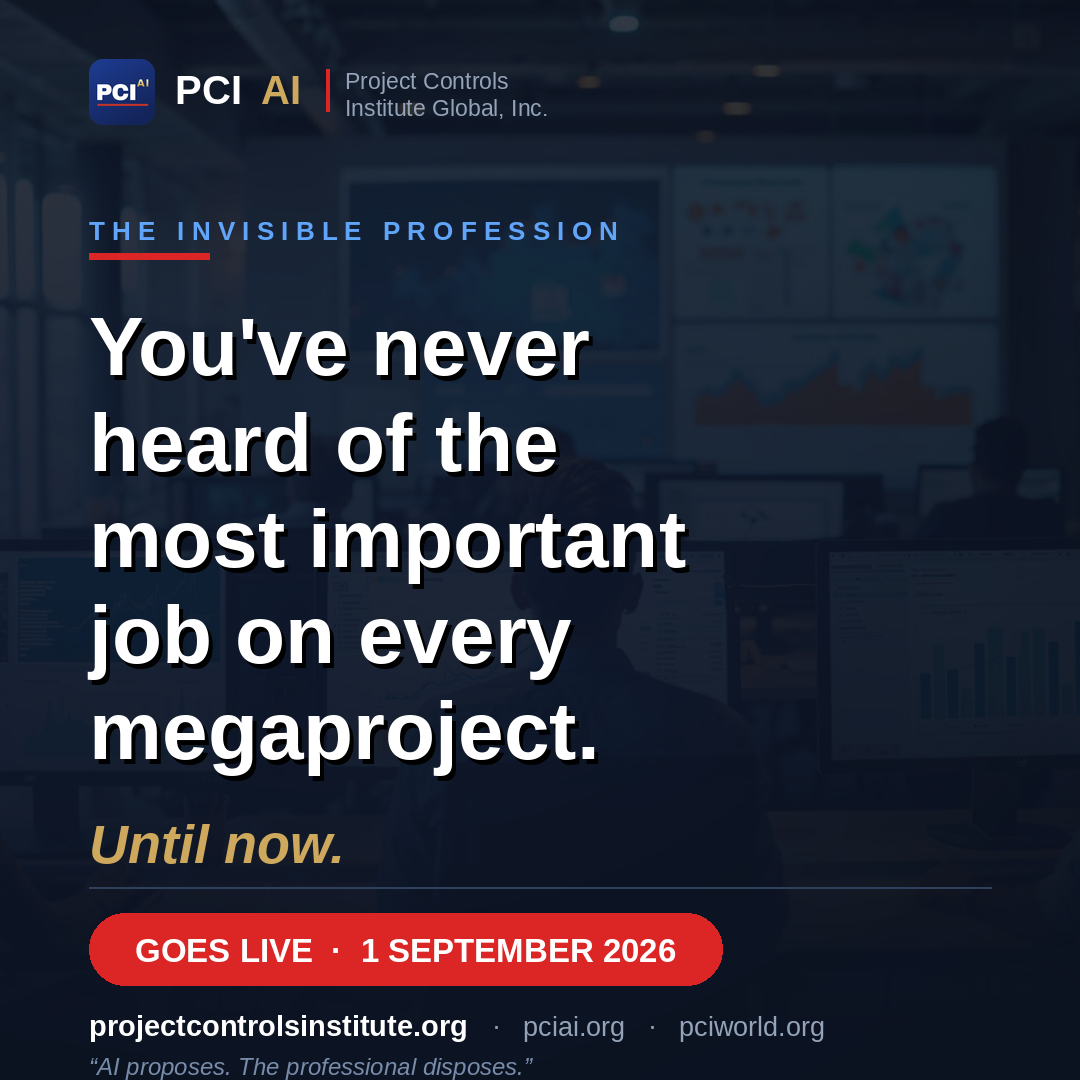
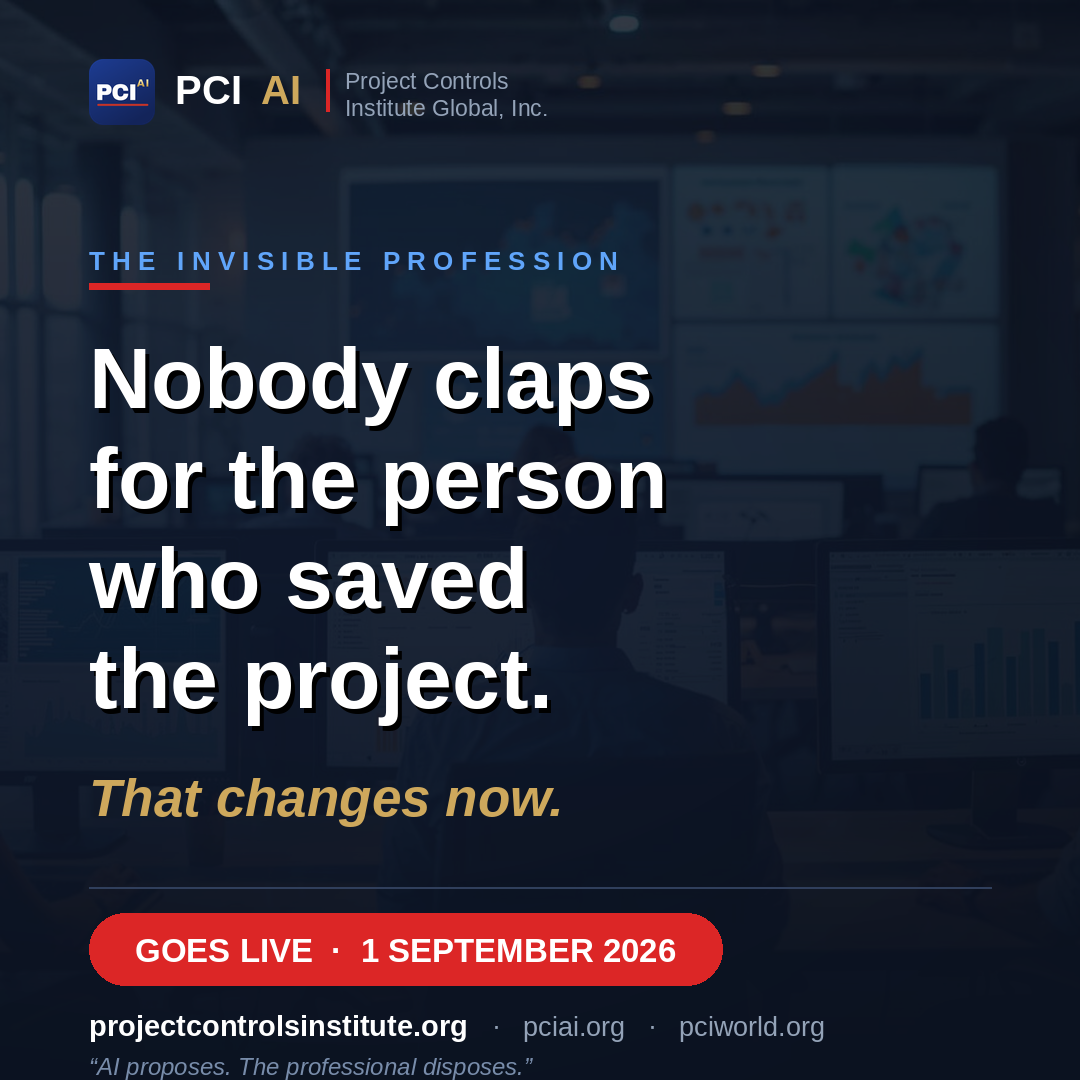
Rework viral post for company-account launch with 10-day boost
New gratitude hook ('Nobody claps for the person who saved the project')
on both the copy and the creative — the strongest tag-driving angle for
a company-page post. Playbook updated: company voice as primary, ally
engagement plan replacing the personal-profile advantage, seed comment
including early honorary applications, and the paid section reworked to
US$30/day x 10 days (~US$300) boosting the same organic post, with a
concentrate-don't-spread budget rule.

Claude-Session: https://claude.ai/code/session_01QrWdjWybfRT68AXDi3hV5u

Changed region(s): [[0.0611, 0.1833, 0.6417, 0.825]]

diff --git a/docs/marketing/viral-launch-post.md b/docs/marketing/viral-launch-post.md
@@ -1,151 +1,120 @@
-# The viral launch post
+# The viral launch post (company account)
 
-Assets: `pci-viral-post-image.png` (1080×1350 — attach to the organic post) and
+Assets: `pci-viral-post-image.png` (1080×1350 — attach to the post) and
 `pci-viral-post-square.png` (1080×1080 — used automatically by some ad placements).
-Post from a **personal profile** (founder/lead), tagging the company page — personal posts
-reach 3–10× further than company posts. Repost from the company page 2–4 hours later.
+Posting from the **PCI company page** — which is also what makes the paid boost possible
+(LinkedIn can only sponsor company-page posts). Organic engagement and the US$30/day boost
+land on the **same post**, so they compound.
 
 ---
 
-## The post (personal voice — primary)
+## The post (company voice — this is the one)
 
-> You've never heard of the most important job on every megaproject.
+> Nobody claps for the person who saved the project.
 >
-> The airport you flew from. The metro you rode this morning. The data centre this post
-> lives in.
+> The ribbon gets cut. The photos get taken. The award goes on someone else's shelf.
 >
-> Every one of them had a person who knew — weeks before anyone else — that the schedule
-> was slipping and the money was running out.
+> But months earlier, in a quiet office, a planner spotted the slip. A cost engineer
+> caught the overrun. A risk analyst said the uncomfortable thing out loud.
 >
-> They're called project controls professionals. Planners. Cost engineers. Risk analysts.
-> Project finance people.
+> That's project controls — the most important job on every megaproject. And almost
+> nobody knows it exists.
 >
-> They don't pour the concrete. They don't cut the ribbon.
-> They just quietly stop billion-dollar projects from failing — with a schedule, a cost
-> model, and the courage to tell the project director the truth.
+> Here's what the numbers say:
 >
-> And here's the strange part:
+> → 25 million new project professionals needed by 2030 (PMI)
+> → US$94 trillion of infrastructure to build by 2040 (Oxford Economics)
+> → And no professional home for the people who make it all add up. Until now.
 >
-> The world needs 25 million new project professionals by 2030 — PMI's number, not mine.
-> US$94 trillion of infrastructure needs building by 2040.
+> On 1 September 2026, the Project Controls Institute goes live — an independent,
+> non-profit US body for project controls professionals, project managers, cost
+> engineers and project finance professionals, worldwide:
 >
-> Yet this profession has never had a home of its own. No focused standard. No institute
-> that certifies the whole job — planning, cost, risk, finance. And nothing that covers
-> the AI now drafting half the work.
+> ✔ Three certifications with governed AI at the core — AI now drafts the schedule;
+>    someone has to judge it
+> ✔ Students: a founding window with membership + exam fees waived. The exam? Still
+>    real. Still earned.
+> ✔ For those who built this profession: board-conferred Honorary Fellowships — no
+>    exam, no fees, ever
+> ✔ Any credential, verified by anyone, in seconds
+> ✔ 7 languages · 25 country chapters · day one
 >
-> That changes on 1 September 2026.
+> And one promise that might sound strange from a certification body: we will never
+> overclaim. We're not yet accredited — and we say so on our own website. Trust is
+> the product.
 >
-> The Project Controls Institute (PCI) — an independent, non-profit body registered in
-> the United States — goes live for project controls professionals, project managers,
-> cost engineers and project finance professionals worldwide:
+> AI proposes. The professional disposes.
 >
-> → Three certifications for the whole discipline, with governed AI at the core
-> → A founding window for students: membership + exam fees waived (the exam is real —
->    you still have to pass it)
-> → Honorary Fellowships for those who built this profession — no exam, no fees,
->    board-conferred
-> → Every credential publicly verifiable by anyone, in seconds
-> → 7 languages. 25 country chapters. Day one.
->
-> One more thing I respect: they refuse to overclaim. Not yet accredited? They say so,
-> in writing, on their own site. In a world of certificate mills, that honesty is the
-> whole point.
->
-> "AI proposes. The professional disposes."
->
-> If you've ever worked with a planner or cost engineer who saved a project nobody knows
-> about — tag them below. Let's make the invisible profession visible. 👇
->
-> 🔗 projectcontrolsinstitute.org
->
-> #ProjectControls #CostEngineering #PlanningEngineer #ProjectManagement #Megaprojects
-
----
-
-## Company-page variant (shorter, repost 2–4 h later)
-
-> The most important job on every megaproject is one most people have never heard of.
->
-> Planners. Cost engineers. Risk analysts. The people who know the truth about the
-> schedule and the money before anyone else — and say it out loud.
->
-> On 1 September 2026, this profession finally gets a home.
->
-> The Project Controls Institute — an independent, non-profit US body — goes live:
-> three certifications with governed AI at the core, a fee-waived founding window for
-> students, board-conferred Honorary Fellowships, and credentials anyone can verify in
-> seconds. In 7 languages, across 25 country chapters.
->
-> Know a planner or cost engineer who deserves to be seen? Tag them. 👇
+> 👇 Tag the planner, cost engineer or PM who saved a project and never got the
+> credit. Today they get it.
 >
 > projectcontrolsinstitute.org
 >
-> #ProjectControls #CostEngineering #ProjectManagement
+> #ProjectControls #CostEngineering #PlanningEngineer #ProjectManagement #Megaprojects
+
+**Seed comment (post it from the page immediately after publishing):**
+
+> For the students asking: the founding window means membership and the exam fee are
+> waived — the exam still has to be passed, that's the point. Start here:
+> projectcontrolsinstitute.org/candidate-journey.html
+> And for the profession's veterans: early Honorary Fellowship applications are open —
+> hello@projectcontrolsinstitute.org
 
 ---
 
 ## Why this is built to travel
 
-1. **Open-loop hook** — the first line is a riddle; readers must tap "see more".
-2. **The profession feels seen** — project controls people are chronically invisible;
-   posts that honour an under-appreciated group get shared *by* that group.
-3. **Tag CTA** — every tag pushes the post into a new network. This is the engine.
-4. **Concrete, sourced numbers** — 25M (PMI), US$94T — credibility plus shareability.
-5. **The honesty twist** — "they admit they're not accredited yet" is contrarian and
-   disarming; it converts sceptics into commenters.
-6. **4:5 portrait image** — maximum feed real estate; five-word-per-line headline
-   readable on a phone at arm's length.
+1. **Gratitude hook** — "nobody claps for the person who saved the project" makes an
+   under-appreciated profession feel seen. People share and tag to *give credit* —
+   the strongest tagging motive that exists.
+2. **Open loop** — the first line demands the "see more" tap.
+3. **Tag CTA with a reason** — "Today they get it" turns tagging into a small act of
+   recognition, not a marketing chore. Every tag = a new network reached.
+4. **Sourced numbers** — 25M (PMI), US$94T (Oxford Economics): credible and quotable.
+5. **The honesty twist** — "we're not yet accredited and we say so" is disarming and
+   comment-bait for sceptics (and every comment fuels reach).
+6. **4:5 portrait image** — maximum feed height; readable at arm's length; the gold
+   "That changes now." pays off the headline.
 
 ## Launch playbook (the first 90 minutes decide everything)
 
-- **When:** Tuesday–Thursday, 07:30–09:00 in the Gulf or UK morning (biggest audience).
-- **Before posting:** line up 5–10 colleagues/awardees to comment (real comments, not
-  "great post") within the first hour. Early engagement velocity = LinkedIn reach.
-- **Author replies to every comment** within the first 2 hours — replies double the
-  comment count and re-trigger distribution.
-- **Seed comment (post it yourself immediately):** "If you're a student: the founding
-  window means membership and the exam fee are waived — the exam still has to be earned.
-  Details: projectcontrolsinstitute.org/candidate-journey.html"
-- **Do not edit the post in the first hour** (edits can suppress reach). No external
-  link in the first line — keep the URL near the end (links early can dampen reach;
-  some prefer link-in-first-comment: acceptable alternative).
-- **Repost rhythm:** company page 2–4 h later; ask chapter leads and honorary invitees
-  to reshare with one personal sentence, not a bare repost.
-- **Follow-up:** 48 h later, post the 17-slide launch deck as a document post for the
-  people the image post warmed up.
+- **When:** Tuesday–Thursday, 07:30–09:00 Gulf/UK time.
+- **Company pages don't get free virality — people carry them.** Before posting, line
+  up 8–12 allies (team, founding students, honorary invitees, friendly chapter leads)
+  to comment something real within the first hour, and 3–4 to reshare with one
+  personal sentence. This substitutes for the personal-profile advantage.
+- **The page replies to every comment** within 2 hours — every reply doubles the
+  thread and re-triggers distribution.
+- Post the **seed comment** immediately (above).
+- **Don't edit the post in the first hour.** Keep the URL late in the post.
+- **48 hours later:** post the 17-slide launch deck as a document post to convert the
+  warmed-up audience.
 
-## Paid boost — US$30/day × 30 days (US$900 total)
+## Paid boost — US$30/day × 10 days (US$300 total)
 
-**The one thing to know first:** LinkedIn cannot boost a *personal* post — only *company
-page* posts can be sponsored. So run both tracks: the personal post carries the organic/
-viral push, and the **company-page version is the one you put the $900 behind.**
+Boost the exact organic post so paid engagement lands on the same thread:
 
-Exact click-path (10 minutes):
-
-1. Publish the company-page variant (above) from the PCI page with the hero image.
-2. On the published post, click **Boost post** (or go to **linkedin.com/campaignmanager**
-   → create account if first time → link the PCI page).
-3. **Objective:** Engagement (drives reactions/comments/shares — matches the viral goal).
-4. **Audience:** Location — Saudi Arabia, UAE, Qatar, UK, US, India, Pakistan, Australia
-   (the chapter priority markets). Attributes → Job title: Planning Engineer, Senior
-   Planner, Cost Engineer, Cost Controller, Project Controls Engineer/Manager, Quantity
-   Surveyor, Estimator, Risk Manager, PMO Manager, Project Manager, Project Finance
-   Analyst. (The Part 4 title list from the playbook.) Aim for an audience of 100k–400k;
-   if too small, switch titles to Job function = Engineering + Program & Project
-   Management with seniorities Entry→Director.
-5. **Untick** "LinkedIn Audience Network" (keep it on LinkedIn only) and untick audience
-   expansion — keeps every dollar on the exact audience.
-6. **Budget & schedule:** Daily budget **$30** · start 1 September 2026 (or today for
-   pre-launch warm-up) · end date 30 days later · total cap ≈ **$900**.
-7. **Bidding:** Maximum delivery (default). Save payment details and launch.
-8. **Measure:** check Campaign Manager every 2–3 days — CTR above ~0.6% and cost per
-   engagement under ~$1.50 is healthy; if a region massively outperforms, clone the
-   campaign and shift budget to it. All link clicks carry
-   `?utm_source=linkedin&utm_medium=paid&utm_campaign=launch-2026`.
+1. Publish the post above from the PCI page with the hero image.
+2. Let it run organically for **2–4 hours** (early organic velocity sets the tone),
+   then click **Boost post** on it (or go to linkedin.com/campaignmanager).
+3. **Objective:** Engagement.
+4. **Audience:** Locations — Saudi Arabia, UAE, Qatar, UK, US, India, Pakistan,
+   Australia. Job titles — Planning Engineer, Senior Planner, Cost Engineer, Cost
+   Controller, Project Controls Engineer/Manager, Quantity Surveyor, Estimator, Risk
+   Manager, PMO Manager, Project Manager, Project Finance Analyst. Target audience
+   size 100k–400k; if too narrow, switch to Job function = Engineering + Program &
+   Project Management, seniorities Entry→Director.
+5. **Untick** LinkedIn Audience Network and audience expansion.
+6. **Budget & schedule:** daily budget **US$30**, run **10 days** → total ≈ **US$300**.
+7. **Bidding:** Maximum delivery. Launch.
+8. **Check on days 2, 5 and 8:** healthy = CTR above ~0.6% and cost per engagement
+   under ~US$1.50. If one region clearly outperforms, end the campaign, clone it for
+   that region only, and put the remaining budget there. With US$300 the worst mistake
+   is spreading thin — concentrating beats covering.
 
 ## Legal guardrails (all already respected in the copy)
 
 - PMI/Oxford figures cited by name; no outcome promises.
-- "Not yet accredited" stated as the honesty angle — matches the site.
-- Honorary = Fellowship/recognition, never "certification"; board-conferred.
+- "Not yet accredited" stated plainly — matches the site's own wording.
+- Honorary = Fellowship/recognition, never "certification"; board-conferred; no fees.
 - Founding window = fees waived, exam still required.
